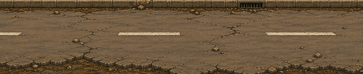
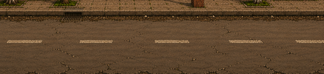
Legible Bangla, new stage backgrounds, helicopter sheet
- Bangla was unreadable because it was resampled twice: baked at ~40px,
  squeezed into the 384x224 buffer, then that buffer blown up 3x. Text
  now draws in the post-upscale pass at window resolution, so glyphs are
  resampled once. Bengali matras and dots survive.
- Wired the four supplied stage backgrounds: Shahbag, Uttara, Rampura,
  Ganabhaban. Stage 3 is renamed Rampura to match the art provided
  (there was no Jatrabari background).
- Extracted the helicopter sheet: 15 frames, front/side/back/top, idle,
  fly and tilt/ascend/descend. Not wired into the game yet.

diff --git a/src/main.cpp b/src/main.cpp
@@ -970,22 +970,27 @@ static void DrawWorld() {
 }
 
 // Per-stage Bangla name and subtitle images.
-static const int STAGE_TX[STAGE_COUNT]  = { TX_S_SHAHBAGH, TX_S_UTTARA, TX_S_JATRA, TX_S_GANA };
+static const int STAGE_TX[STAGE_COUNT]  = { TX_S_SHAHBAGH, TX_S_UTTARA, TX_S_RAMPURA, TX_S_GANA };
 static const int STAGESUB_TX[STAGE_COUNT] = { TX_SUB_SHAHBAGH, TX_SUB_UTTARA,
-                                              TX_SUB_JATRA, TX_SUB_GANA };
+                                              TX_SUB_RAMPURA, TX_SUB_GANA };
 
-// Bangla digits, so the score does not switch language mid-screen.
+// The overlay is drawn in the post-upscale pass, so everything in it takes
+// game-space coordinates and multiplies up to window pixels here.
+static void UIRect(float x, float y, float w, float h, Color c) {
+    DrawRectangle((int)(x * SCALE), (int)(y * SCALE),
+                  (int)(w * SCALE), (int)(h * SCALE), c);
+}
+
+// Latin numerals: universally read in Bangladesh, and loading Kalpurush into
+// raylib properly would mean shipping the font and a codepoint table for a
+// handful of digits.
 static void DrawBnNumber(int v, float cx, float y, float h, Color tint) {
-    static const char* D[10] = { "০","১","২","৩","৪",
-                                 "৫","৬","৭","৮","৯" };
     char buf[24]; snprintf(buf, sizeof(buf), "%d", v);
-    // Kalpurush is not loaded as a raylib font, so fall back to the built-in
-    // digits — Latin numerals are universally read in Bangladesh anyway.
-    (void)D;
-    int size = (int)h;
+    int size = (int)(h * SCALE);
     int w = MeasureText(buf, size);
-    DrawText(buf, (int)(cx - w / 2) + 1, (int)y + 1, size, { 0, 0, 0, 200 });
-    DrawText(buf, (int)(cx - w / 2), (int)y, size, tint);
+    int px = (int)(cx * SCALE) - w / 2, py = (int)(y * SCALE);
+    DrawText(buf, px + 2, py + 2, size, { 0, 0, 0, 200 });
+    DrawText(buf, px, py, size, tint);
 }
 
 static void DrawOverlay() {
@@ -993,10 +998,10 @@ static void DrawOverlay() {
     const int SC2 = GAME_W / 2;
     switch (W.st) {
     case GS_TITLE:
-        DrawRectangle(0, 0, GAME_W, GAME_H, { 8, 10, 18, 195 });
+        UIRect(0, 0, GAME_W, GAME_H, { 8, 10, 18, 195 });
         DrawUITextC(TX_TITLE2, SC2, 28, 20);
         DrawUITextC(TX_TITLE1, SC2, 48, 34);
-        DrawRectangle(SC2 - 60, 88, 120, 2, { 31, 143, 78, 255 });
+        UIRect(SC2 - 60, 88, 120, 2, { 31, 143, 78, 255 });
         DrawUITextC(TX_JULY, SC2, 94, 14);
         if ((W.stateT / 30) % 2) DrawUITextC(TX_PRESS, SC2, GAME_W > 0 ? 132 : 132, 16);
         DrawUITextC(TX_CONTROLS, SC2, GAME_H - 26, 11);
@@ -1010,7 +1015,7 @@ static void DrawOverlay() {
         float a = (W.stateT < 20) ? W.stateT / 20.0f
                 : (W.stateT > 100) ? fmaxf(0.0f, (130 - W.stateT) / 30.0f) : 1.0f;
         unsigned char A = (unsigned char)(255 * a);
-        DrawRectangle(0, 0, GAME_W, GAME_H, { 8, 10, 18, (unsigned char)(205 * a) });
+        UIRect(0, 0, GAME_W, GAME_H, { 8, 10, 18, (unsigned char)(205 * a) });
         DrawUIText(TX_STAGE, SC2 - 28, 74, 13, { 159, 224, 184, A });
         DrawBnNumber(W.stage + 1, SC2 + 20, 74, 13, { 159, 224, 184, A });
         DrawUITextC(STAGE_TX[W.stage], SC2, 90, 26, { 255, 255, 255, A });
@@ -1018,7 +1023,7 @@ static void DrawOverlay() {
         break;
     }
     case GS_CLEAR:
-        DrawRectangle(0, 0, GAME_W, GAME_H, { 8, 10, 18, 205 });
+        UIRect(0, 0, GAME_W, GAME_H, { 8, 10, 18, 205 });
         DrawUITextC(TX_CLEARED, SC2, 46, 26);
         DrawUITextC(TX_FALLEN, SC2, 78, 13, { 255, 179, 179, 235 });
         DrawUIText(TX_SCORE, SC2 - 52, 100, 15, { 255, 209, 102, 255 });
@@ -1028,8 +1033,7 @@ static void DrawOverlay() {
         break;
 
     case GS_GAMEOVER:
-        DrawRectangle(0, 0, GAME_W, GAME_H,
-                      { 20, 6, 10, (unsigned char)std::min(212, W.stateT * 4) });
+        UIRect(0, 0, GAME_W, GAME_H, { 20, 6, 10, (unsigned char)std::min(212, W.stateT * 4) });
         DrawUITextC(TX_GAMEOVER, SC2, 52, 28, { 255, 110, 110, 255 });
         DrawUITextC(TX_DIEDAT, SC2, 84, 13, { 255, 255, 255, 180 });
         DrawUIText(TX_SCORE, SC2 - 52, 104, 15, RAYWHITE);
@@ -1039,7 +1043,7 @@ static void DrawOverlay() {
         break;
 
     case GS_VICTORY:
-        DrawRectangle(0, 0, GAME_W, GAME_H, { 8, 20, 14, 205 });
+        UIRect(0, 0, GAME_W, GAME_H, { 8, 20, 14, 205 });
         DrawUITextC(TX_WIN1, SC2, 34, 32);
         DrawUITextC(TX_WIN2, SC2, 72, 13, { 159, 224, 184, 255 });
         DrawUIText(TX_FINALSCORE, SC2 - 74, 96, 15, { 255, 209, 102, 255 });
@@ -1257,7 +1261,6 @@ static void Frame() {
             if (W.flash > 0)
                 DrawRectangle(0, 0, GAME_W, GAME_H,
                               { 255, 255, 255, (unsigned char)(W.flash * 190) });
-            DrawOverlay();
             DrawTouchUI();
         EndTextureMode();
 
@@ -1267,6 +1270,11 @@ static void Frame() {
                 { 0, 0, (float)GAME_W, -(float)GAME_H },
                 { 0, 0, (float)(GAME_W * SCALE), (float)(GAME_H * SCALE) },
                 { 0, 0 }, 0.0f, WHITE);
+            // Text goes on AFTER the upscale, at window resolution, so Bangla
+            // is resampled once instead of twice and stays legible.
+            SetUIScale((float)SCALE);
+            DrawOverlay();
+            SetUIScale(1.0f);
         EndDrawing();
 
         if (g_shotAt >= 0 && frameNo >= g_shotAt) {
@@ -1275,6 +1283,8 @@ static void Frame() {
         }
     }
 }
+
+
 
 
 

diff --git a/src/stages.h b/src/stages.h
@@ -91,7 +91,7 @@ constexpr Stage STAGES[STAGE_COUNT] = {
         -1, 0.0f
     },
     // --------------------------- 2 ---------------------------
-    {   "UTTARA", "they cut the internet", 2,
+    {   "UTTARA", "they cut the internet", 1,
         {
             { 340,  4, 3, { CK_CHHATRA, CK_POLICE }, 2 },
             { 760,  5, 3, { CK_POLICE, CK_DBPOLICE }, 2 },
@@ -102,7 +102,7 @@ constexpr Stage STAGES[STAGE_COUNT] = {
         -1, 0.0f
     },
     // --------------------------- 3 ---------------------------
-    {   "JATRABARI", "nothing left to lose", 3,
+    {   "RAMPURA", "the bridge holds", 2,
         {
             { 340,  5, 3, { CK_POLICE, CK_CHHATRA }, 2 },
             { 780,  5, 3, { CK_JALLAD, CK_POLICE }, 2 },
@@ -115,7 +115,7 @@ constexpr Stage STAGES[STAGE_COUNT] = {
     // --------------------------- 4 ---------------------------
     // The finale: Hasina AND Jallad on the floor together. `bossExtraKind`
     // spawns the second one beside her, so it is a genuine two-on-three.
-    {   "GANABHABAN", "5 August - the gate is open", 4,
+    {   "GANABHABAN", "5 August - the gate is open", 3,
         {
             { 340,  5, 3, { CK_DBPOLICE, CK_POLICE }, 2 },
             { 800,  6, 4, { CK_JALLAD, CK_DBPOLICE }, 2 },
@@ -144,4 +144,5 @@ constexpr Rank RANKS[] = {
     {      0, "BYSTANDER"   },
 };
 constexpr int RANK_COUNT = 5;
+
 

diff --git a/src/text.cpp b/src/text.cpp
@@ -39,6 +39,14 @@ void UnloadUIText() {
     g_loaded = false;
 }
 
+// Coordinates are always given in 384x224 game space. When the UI is drawn in
+// the post-upscale pass this multiplies them up to window pixels, so the glyphs
+// are resampled ONCE (source PNG -> screen) instead of twice. Squeezing them
+// into the small buffer and then blowing that buffer up is what made the Bangla
+// unreadable: Bengali matras and dots do not survive a double resample.
+static float g_uiScale = 1.0f;
+void SetUIScale(float s) { g_uiScale = s; }
+
 float UITextW(int id, float h) {
     if (id < 0 || id >= TX_COUNT || !g_tex[id].id || g_tex[id].height == 0) return 0.0f;
     return g_tex[id].width * (h / (float)g_tex[id].height);
@@ -48,8 +56,9 @@ void DrawUIText(int id, float x, float y, float h, Color tint) {
     if (id < 0 || id >= TX_COUNT || !g_tex[id].id || g_tex[id].height == 0) return;
     const Texture2D& t = g_tex[id];
     float w = t.width * (h / (float)t.height);
+    const float k = g_uiScale;
     DrawTexturePro(t, { 0, 0, (float)t.width, (float)t.height },
-                      { x, y, w, h }, { 0, 0 }, 0.0f, tint);
+                      { x * k, y * k, w * k, h * k }, { 0, 0 }, 0.0f, tint);
 }
 
 void DrawUITextC(int id, float cx, float y, float h, Color tint) {

diff --git a/src/textids.h b/src/textids.h
@@ -26,11 +26,11 @@ enum TextId {
     TX_RETRY,
     TX_S_SHAHBAGH,
     TX_S_UTTARA,
-    TX_S_JATRA,
+    TX_S_RAMPURA,
     TX_S_GANA,
     TX_SUB_SHAHBAGH,
     TX_SUB_UTTARA,
-    TX_SUB_JATRA,
+    TX_SUB_RAMPURA,
     TX_SUB_GANA,
     TX_B_SADDAM,
     TX_B_HARUN,
@@ -43,7 +43,7 @@ enum TextId {
     TX_COUNT
 };
 
-__attribute__((unused)) static const char* TEXT_FILES[TX_COUNT] = {
+static const char* TEXT_FILES[TX_COUNT] = {
     "assets/text/TITLE1.png",
     "assets/text/TITLE2.png",
     "assets/text/JULY.png",
@@ -65,11 +65,11 @@ __attribute__((unused)) static const char* TEXT_FILES[TX_COUNT] = {
     "assets/text/RETRY.png",
     "assets/text/S_SHAHBAGH.png",
     "assets/text/S_UTTARA.png",
-    "assets/text/S_JATRA.png",
+    "assets/text/S_RAMPURA.png",
     "assets/text/S_GANA.png",
     "assets/text/SUB_SHAHBAGH.png",
     "assets/text/SUB_UTTARA.png",
-    "assets/text/SUB_JATRA.png",
+    "assets/text/SUB_RAMPURA.png",
     "assets/text/SUB_GANA.png",
     "assets/text/B_SADDAM.png",
     "assets/text/B_HARUN.png",
@@ -80,4 +80,3 @@ __attribute__((unused)) static const char* TEXT_FILES[TX_COUNT] = {
     "assets/text/C_JITU.png",
     "assets/text/C_ANTOR.png",
 };
-

diff --git a/src/text.h b/src/text.h
@@ -8,6 +8,10 @@
 void  LoadUIText();
 void  UnloadUIText();
 
+// Coordinates stay in 384x224 game space; this scales them to window pixels so
+// text can be drawn AFTER the world is upscaled and is resampled only once.
+void  SetUIScale(float s);
+
 // `h` is the height to draw at, in game pixels; width follows the aspect.
 void  DrawUIText (int id, float x,  float y, float h, Color tint = WHITE);
 void  DrawUITextC(int id, float cx, float y, float h, Color tint = WHITE);
